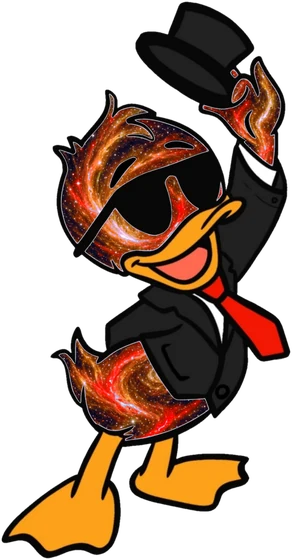
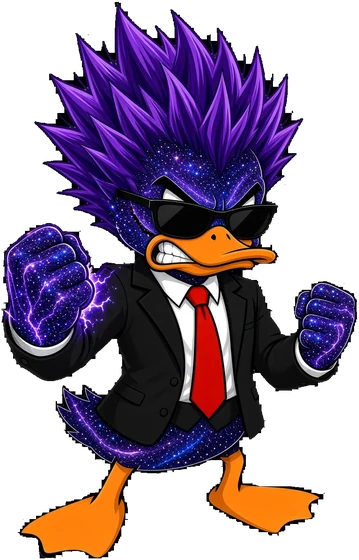
Galáctico con su nueva imagen enojada y el Dorado como único secreto de $100.000.000
- Tío Pato Galáctico: la versión enojada pasa a ser la imagen nueva (melena morada de punta y puños con rayos), con el fondo negro quitado, y se ajustan su proporción y el recorte del avatar. Sus frases de furia dejan de hablar de lava y hablan de tormenta cósmica y puños estelares.
- Tío Pato Dorado (imágenes del rey dorado y del dorado oscuro) pasa a ser el personaje secreto de $100.000.000 y reemplaza al Millonario antiguo (el rig dorado). Su id sigue siendo millonario para que quien ya lo compró no lo pierda; la skin de $50.000.000 desaparece.
- Frases del secreto: las del Dorado más las de «millonario» que no hablan del infierno (26 amables, 25 de reto, 20 de enojo, 14 de furia).
- Reglas de Firebase regeneradas: solo desaparece el bloque ch_dorado. Pruebas de reglas: 199 correctas.
- LEEME actualizado.

Claude-Session: https://claude.ai/code/session_01Hta2nH4bh5bZygqPgYndi2

diff --git a/dialogos.js b/dialogos.js
@@ -247,32 +247,8 @@ window.DIALOGOS = {
       }
     },
 
-    millonario: {
-      amable: [
-        'Con tus rebotes me haces más rico', '¡Cada {nom} suena a música!', 'Soy tan millonario que hasta mis plumas son de oro', '¡Qué buena inversión eres, %j!', 'Mi fortuna crece con cada rebote',
-        'Hasta mi chofer aplaude', 'El oro brilla, pero tu juego brilla más', '¡Cuac de oro, cuac de lujo!', 'Esto sí es vida de millonario', 'Después de esto, caviar para todos'
-      ],
-      reto: [
-        'Un millonario no se deja ganar, ¿sabes?', 'Tengo oro para aburrir… ¿y tú?', 'Mis monedas valen más que tu puntería', '¿Crees que puedes con una fortuna como la mía?', 'Para ganarme hay que ser millonario… ¿lo eres?',
-        'Ya me aburrí de regalarte puntos', 'Mi banco no pierde, amigo', 'Estoy contando mis monedas… y tú vas perdiendo las tuyas', 'Mil pesos más y te rindes, ¿cierto?', 'Mi caja fuerte está más segura que tu barra'
-      ],
-      enojo: [
-        '¡Esto me está costando una fortuna!', '¡Mi oro se está enfriando de la rabia!', '¡Llamen a mi contador, esto es un robo!', '¡Estás gastando mi paciencia, que vale millones!', '¡Ya no soy tan generoso, cuac!',
-        '¡Mi paciencia se agrietó como un lingote!', '¡Pierdo millones por tu culpa!', '¡Eso fue un robo a mano alzada!'
-      ],
-      diablo: [
-        '¡MUAJAJAJA! ¡Tu alma tiene precio!', '¡Arde, mortal… pero yo pago!', '¡El infierno también se compra, cuac!', '¡NO ESCAPARÁS DE MI FORTUNA!', '¡Soy %n del infierno… y rico!',
-        '¡Mis llamas son de oro puro!', '¡Todo el infierno es mío, hasta el último peso!', '¡Quémate… en billetes!', '¡Hasta el diablo me debe plata!', '¡Mi tridente es de oro macizo!'
-      ],
-      hitos: {
-        30: ['Mmm… se me acabó la generosidad', 'Ya no regalo más puntos, amigo', 'Hasta aquí llegó el millonario bueno'],
-        55: ['¡Se me acabó la paciencia! ¡AAARGH! 😡', '¡ESTO ME ESTÁ COSTANDO UNA FORTUNA! 😡', '¡Mi corona se torció de la rabia! 😡'],
-        60: ['¡AHORA SOY %D! 😈', '¡ME CONVIERTO EN %D… Y RICO! 😈', '¡MIREN, SOY %D DE ORO! 😈']
-      }
-    },
-
-    // Los dos siguientes tienen muchas más frases y provocan más: hay para que no se repitan en una partida larga.
-    // Tío Pato Galáctico: cósmico y burlón. Al enojarse su galaxia se vuelve lava (no habla del infierno).
+    // Los dos últimos (Galáctico y el secreto Dorado) tienen muchas más frases y provocan más: hay para que no se repitan en una partida larga.
+    // Tío Pato Galáctico: cósmico y burlón. Al enojarse se le eriza la melena morada y le salen rayos en los puños (no habla del infierno).
     galactico: {
       amable: [
         '¡Qué rebote tan estelar, %j!', 'Mi cabeza guarda una galaxia entera… ¡y ahí cabe tu puntería!', '¡Cuac cósmico! Esto es lo mejor del universo', 'Tus rebotes brillan como estrellas',
@@ -292,9 +268,9 @@ window.DIALOGOS = {
         '¡Me estás sacando de órbita!', '¡Ni la gravedad te para!', '¡Esto va a terminar en un Big Bang!', '¡Mi cabeza es un torbellino!'
       ],
       furia: [
-        '¡MI GALAXIA ESTÁ EN LLAMAS!', '¡AGUJERO NEGRO, TRÁGATE {ESA}!', '¡SUPERNOVAAAA!', '¡EL UNIVERSO ENTERO TIENE QUE PARAR!', '¡TODO EL COSMOS ARDE, %j!', '¡ME CONVIERTO EN LAVA ESTELAR!',
-        '¡CUAC CÓSMICO!', '¡LAS ESTRELLAS ESTÁN EXPLOTANDO!', '¡NO HAY GALAXIA QUE AGUANTE ESTO!', '¡FALLA DE UNA VEZ, TERRÍCOLA!', '¡MI PLANETA SE ESTÁ DERRITIENDO!',
-        '¡ESTO ES EL FIN DEL UNIVERSO!', '¡METEORITOS, A MÍ!', '¡NI UN AGUJERO NEGRO TE TRAGA!'
+        '¡MI GALAXIA SE DESATA!', '¡AGUJERO NEGRO, TRÁGATE {ESA}!', '¡SUPERNOVAAAA!', '¡EL UNIVERSO ENTERO TIENE QUE PARAR!', '¡TODO EL COSMOS TIEMBLA, %j!', '¡ME CONVIERTO EN TORMENTA ESTELAR!',
+        '¡CUAC CÓSMICO!', '¡LAS ESTRELLAS ESTÁN EXPLOTANDO!', '¡NO HAY GALAXIA QUE AGUANTE ESTO!', '¡FALLA DE UNA VEZ, TERRÍCOLA!', '¡MI PLANETA SE SACUDE!',
+        '¡ESTO ES EL FIN DEL UNIVERSO!', '¡METEORITOS, A MÍ!', '¡NI UN AGUJERO NEGRO TE TRAGA!', '¡PUÑOS ESTELARES, A LA CARGA!', '¡MI MELENA CÓSMICA SE ERIZÓ!', '¡RAYOS DE GALAXIA, DESPIERTEN!'
       ],
       hitos: {
         10: ['¡Diez! Todavía estás en órbita baja 🚀', '¡Ya van diez, astronauta! 🚀'],
@@ -302,30 +278,37 @@ window.DIALOGOS = {
         30: ['Mmm… el universo se está poniendo serio', 'Se acabó el paseo espacial, amigo', 'Mi galaxia acaba de acelerar'],
         45: ['¡45! Se me está calentando la galaxia ☄', '¡45 rebotes! Las estrellas empiezan a inquietarse ☄'],
         55: ['¡Mi galaxia se enciende! ¡CUAAAC! 😡', '¡Se me acabó la paciencia cósmica! 😡', '¡Explota la primera estrella! 😡'],
-        60: ['¡Mi universo arde! 🔥', '¡Mi galaxia es lava ahora! 🔥', '¡Soy una supernova con pico! 🔥'],
+        60: ['¡Mi melena se erizó! ¡Soy una tormenta cósmica! ⚡', '¡Puños estelares, a la carga! ⚡', '¡Soy una supernova con pico! ⚡'],
         80: ['¡80! ¡Ni los cometas van tan rápido! ☄', '¡Ochenta! Las estrellas hablan de ti ☄'],
         120: ['¡120! Hasta los agujeros negros te respetan 🌌', '¡Ciento veinte! ¿Seguro que eres terrícola, %j? 🌌'],
         150: ['¡150! Eres una constelación nueva 🌌', '¡Ciento cincuenta! El universo se rinde ante ti 🌌']
       }
     },
 
-    // Tío Pato Dorado (secreto): un rey presumido. Al enojarse su oro se vuelve brasa (no habla del infierno).
-    dorado: {
+    // Tío Pato Dorado (el secreto de $100.000.000; su id sigue siendo millonario): rey presumido y millonario. Al enojarse su oro se vuelve brasa (no habla del infierno).
+    millonario: {
       amable: [
         '¡Un rey de oro aprueba ese rebote!', 'Mi corona brilla un poquito más gracias a ti', 'Cada rebote tuyo vale su peso en oro', '¡Qué modales tan reales, %j!', '¡Cuac, cuac! ¡Salve el campeón!',
         'Todo lo que toco se vuelve oro… hasta tu partida', 'Mi corte aplaude de pie', 'Puedes ser mi caballero real, %j', 'Con este traje negro hasta los reyes me envidian', 'Qué puntería digna de un reino',
-        '¡Brilla, brilla, %j!', '¡Cuac real!', 'Hoy el rey está de buen humor', 'Mi tesoro y tú: lo mejor de mi reino', 'Un aplauso real para %j', '¡Bien jugado, plebeyo… digo, amigo!'
+        '¡Brilla, brilla, %j!', '¡Cuac real!', 'Hoy el rey está de buen humor', 'Mi tesoro y tú: lo mejor de mi reino', 'Un aplauso real para %j', '¡Bien jugado, plebeyo… digo, amigo!',
+        'Con tus rebotes me haces más rico', '¡Cada {nom} suena a música!', 'Soy tan millonario que hasta mis plumas son de oro', '¡Qué buena inversión eres, %j!', 'Mi fortuna crece con cada rebote',
+        'Hasta mi chofer aplaude', 'El oro brilla, pero tu juego brilla más', '¡Cuac de oro, cuac de lujo!', 'Esto sí es vida de millonario', 'Después de esto, caviar para todos'
       ],
       reto: [
         'Un rey no pierde contra un plebeyo, ¿lo sabías?', 'Mi corona pesa… pero tu paciencia pesa menos', '¿Te atreves a desafiar a la realeza?', 'Mi reino nunca ha sido conquistado',
         'Para ganarme hay que tener sangre de oro, %j', 'Se te están acabando los súbditos… digo, los rebotes', 'Un rey siempre gana la última partida', 'Mi tesoro es más grande que tu ego',
         'Cuidado: la corona se pone pesada cuando me enojo', 'Rebotas bien… ¡para ser plebeyo!', 'Tu barra no vale ni una moneda de mi tesoro', 'Mis guardias ya preparan tu destierro',
-        'El trono es mío, amigo', 'Ya van %h rebotes… ¡ni un siervo aguanta tanto!', 'No me hagas quitarme la corona', '¿Todo el oro del mundo y tú sin poder fallar?'
+        'El trono es mío, amigo', 'Ya van %h rebotes… ¡ni un siervo aguanta tanto!', 'No me hagas quitarme la corona', '¿Todo el oro del mundo y tú sin poder fallar?',
+        'Un millonario no se deja ganar, ¿sabes?', 'Tengo oro para aburrir… ¿y tú?', 'Mis monedas valen más que tu puntería', '¿Crees que puedes con una fortuna como la mía?',
+        'Para ganarme hay que ser millonario… ¿lo eres?', 'Ya me aburrí de regalarte puntos', 'Mi banco no pierde, amigo', 'Estoy contando mis monedas… y tú vas perdiendo las tuyas',
+        'Mi caja fuerte está más segura que tu barra'
       ],
       enojo: [
         '¡Tu insolencia es un insulto al reino, %j!', '¡Mi corona se está calentando!', '¡Guardias! ¡Detengan a este plebeyo!', '¡Se me derrite el oro de la rabia!', '¡Ya no soy tan generoso con los rebotes!',
         '¡Esto es una traición a la corona!', '¡Mi tesoro tiembla de rabia!', '¡Un rey no debería sufrir esto!', '¡Se me oscurece el oro, cuac!', '¡Te voy a desterrar de mi reino!',
-        '¡Mis rubíes están al rojo vivo!', '¡Mis plumas doradas se ponen naranjas!', '¡Esto es alta traición!', '¡CUAC REAL! ¡CUAC REAL!'
+        '¡Mis rubíes están al rojo vivo!', '¡Mis plumas doradas se ponen naranjas!', '¡Esto es alta traición!', '¡CUAC REAL! ¡CUAC REAL!',
+        '¡Esto me está costando una fortuna!', '¡Llamen a mi contador, esto es un robo!', '¡Estás gastando mi paciencia, que vale millones!', '¡Mi paciencia se agrietó como un lingote!',
+        '¡Pierdo millones por tu culpa!', '¡Eso fue un robo a mano alzada!'
       ],
       furia: [
         '¡MI CORONA ARDE AL ROJO VIVO!', '¡SOY EL REY DE LAS BRASAS!', '¡TODO EL ORO SE HACE LAVA!', '¡ARRODÍLLATE ANTE EL REY ARDIENTE!', '¡MI REINO SE INCENDIA POR TU CULPA, %j!',
@@ -335,9 +318,9 @@ window.DIALOGOS = {
       hitos: {
         10: ['¡Diez rebotes! Mi corte te observa 👑', '¡Ya van diez! Voy a anotarlo en el libro real 👑'],
         20: ['¡Veinte! Vas camino a duque 👑', '¡Veinte rebotes! Mi tesorero está impresionado 👑'],
-        30: ['Mmm… el rey se está aburriendo de ser amable', 'Se acabó la cortesía real, amigo', 'Mi corona se siente pesada de repente'],
+        30: ['Mmm… el rey se está aburriendo de ser amable', 'Se acabó la cortesía real, amigo', 'Mi corona se siente pesada de repente', 'Mmm… se me acabó la generosidad', 'Ya no regalo más puntos, amigo'],
         45: ['¡45! Se me está calentando el oro 🔥', '¡45 rebotes! Los guardias empiezan a sudar 🔥'],
-        55: ['¡Se me enciende la corona! ¡CUAAAC! 😡', '¡HASTA AQUÍ LLEGÓ EL REY BUENO! 😡', '¡Mi oro se está poniendo negro! 😡'],
+        55: ['¡Se me enciende la corona! ¡CUAAAC! 😡', '¡HASTA AQUÍ LLEGÓ EL REY BUENO! 😡', '¡Mi oro se está poniendo negro! 😡', '¡ESTO ME ESTÁ COSTANDO UNA FORTUNA! 😡', '¡Mi corona se torció de la rabia! 😡'],
         60: ['¡AHORA SOY EL REY ARDIENTE! 🔥', '¡MI ORO ES BRASA! 🔥', '¡ARRODÍLLENSE, QUE ARDE EL TRONO! 🔥'],
         80: ['¡80! Hasta mis rubíes se asustan 🔥', '¡Ochenta! Ningún súbdito había llegado tan lejos 🔥'],
         120: ['¡120! Te mereces un reino propio 👑', '¡Ciento veinte! Me quitaría la corona por ti… ¡pero no! 👑'],

diff --git a/tienda.js b/tienda.js
@@ -5,7 +5,7 @@ window.TIENDA = {
   // Economía: cada punto vale lo que paga tu pelota (ball[].rate) multiplicado por «Monedas dobles»: ×1 del punto 1 al 99, ×2 del 100 al 199, ×3 del 200 al 299…
   eco: { tier: 100, msPorRebote: 450, holguraMs: 3000, hMax: 500, cMax: 1000000000000 },
 
-  // Personajes: el rival que te devuelve la pelota. La Tía Patita (patita/) y el Millonario (oro/) tienen carpeta con las capas del ángel y del demonio; el resto son imágenes sueltas
+  // Personajes: el rival que te devuelve la pelota. Solo la Tía Patita (patita/) tiene carpeta con las capas del ángel y del demonio; el resto son imágenes sueltas
   // que se enojan con temblor, brillo rojo y vapor. stat = dibujo calmado · stat2 = dibujo enojado, al que cambian cuando el personaje se enoja.
   // av = recorte de la cara para el avatar · dw = ancho de la caja del personaje (la pareja es más ancha) · g = género/número del nombre (m, f o p = plural).
   // devil: true = el personaje se transforma en diablo (su dibujo enojado es un demonio): sus frases del rebote 70 en adelante hablan del infierno; los demás solo se enfurecen.
@@ -22,14 +22,12 @@ window.TIENDA = {
       av: { w: 76, fx: .47, fy: .375 }, av2: { w: 80, fx: .62, fy: .41 }, css: { steam: '64% 12%' }, note: 'Bigote, sombrero de copa y bata' },
     { id: 'tios',     n: 'Tíos Patitos',        price: 600, stat: 'trajes/tios.webp',     stat2: 'trajes/tios-enojados.webp',    asp: .83,  asp2: .86,  name: 'los Tíos Patitos',       g: 'p', dw: 1.5,
       av: { w: 70, fx: .49, fy: .31 }, av2: { w: 70, fx: .50, fy: .31 }, css: { steam: '48% 6%' }, note: 'La pareja: te devuelven la pelota de la mano' },
-    { id: 'galactico', n: 'Tío Pato Galáctico',  price: 5000, stat: 'trajes/galactico.webp', stat2: 'trajes/galactico-furia.webp', asp: 1.918, asp2: 1.918, name: 'el Tío Pato Galáctico',  g: 'm',
-      av: { w: 74, fx: .46, fy: .35 }, av2: { w: 74, fx: .46, fy: .35 }, css: { steam: '62% 20%' }, note: 'Un trozo del universo con sombrero de copa' },
-    // Personajes secretos: aparecen como una carta misteriosa hasta que los compras.
-    { id: 'dorado',    n: 'Tío Pato Dorado',     price: 50000000, stat: 'trajes/dorado.webp', stat2: 'trajes/dorado-oscuro.webp', asp: 1.812, asp2: 1.767, name: 'el Tío Pato Dorado', g: 'm', secret: true, glow: true,
-      av: { w: 74, fx: .49, fy: .37 }, av2: { w: 70, fx: .54, fy: .36 }, css: { steam: '62% 22%' }, note: 'Rey de oro que se enciende al rojo vivo' },
-    // El Millonario usa el rig de capas del Tío Pato de antes (alas, aureola, cuernos y tridente), pintado de oro (carpeta oro/).
-    { id: 'millonario', n: 'Tío Pato Millonario', price: 100000000, dir: 'oro/', name: 'el Tío Pato Millonario', g: 'm', secret: true, glow: true,
-      css: { wl: '43.5% 64.5%', wr: '59% 63.7%', tr: '60.3% 35.5%', tail: '40% 76%', steam: '58% 22%', avW: '142px', avL: '-47px', avT: '-56px' }, note: 'De oro macizo: el sueño de todo millonario' }
+    { id: 'galactico', n: 'Tío Pato Galáctico',  price: 5000, stat: 'trajes/galactico.webp', stat2: 'trajes/galactico-furia.webp', asp: 1.918, asp2: 1.56, name: 'el Tío Pato Galáctico',  g: 'm',
+      av: { w: 74, fx: .46, fy: .35 }, av2: { w: 88, fx: .56, fy: .40 }, css: { steam: '60% 14%' }, note: 'Un trozo del universo: se enoja y se le eriza la melena' },
+    // Personaje secreto: aparece como una carta misteriosa hasta que lo compras. Es el Tío Pato Dorado (rey de oro con corona que al enojarse se enciende al rojo vivo).
+    // Su id sigue siendo «millonario» para que quien ya lo compró no lo pierda (las reglas de Firebase guardan lo comprado como ch_millonario).
+    { id: 'millonario', n: 'Tío Pato Dorado', price: 100000000, stat: 'trajes/dorado.webp', stat2: 'trajes/dorado-oscuro.webp', asp: 1.812, asp2: 1.767, name: 'el Tío Pato Dorado', g: 'm', secret: true, glow: true,
+      av: { w: 74, fx: .49, fy: .37 }, av2: { w: 70, fx: .54, fy: .36 }, css: { steam: '62% 22%' }, note: 'El secreto: rey de oro que se enciende al rojo vivo' }
   ],
 
   // vip: true = artículo para millonarios (la tienda los separa y los marca con 💎; el precio ya los deja fuera del alcance de quien recién empieza).

diff --git a/LEEME.md b/LEEME.md
@@ -33,12 +33,12 @@ Firebase Realtime Database (gratis, aguanta miles de jugadores) y toma unos 5 mi
   **lingote de plata ($50.000) → $100 · lingote de oro ($500.000) → $200 · diamante ($1.000.000) → $500**.
   Ese valor se multiplica por **«Monedas dobles»**: ×1 del rebote 1 al 99, ×2 del 100 al 199, ×3 del 200 al 299, y así. Ejemplo: con el diamante, una partida de 120 rebotes da 500 × 141 = $70.500 (y una de 500 rebotes, $752.500).
   Al llegar al rebote 100 aparece el aviso animado **«¡Monedas dobles! ×2»** (×3 en el 200…) y una insignia ×N junto al marcador. La pelota con la que empiezas la partida es la que paga toda la partida.
-- **Personajes secretos:** el **Tío Pato Dorado** ($50.000.000; un pato dorado con corona que al enojarse se pone naranja brasa, imágenes `trajes/dorado*.webp`) y el **Tío Pato Millonario** (el Tío Pato de oro, $100.000.000). En la tienda aparecen como cartas misteriosas («Personaje secreto») hasta que se compran. El arte del Millonario está en `oro/` (las mismas capas del Tío Pato pintadas de oro); se puede reemplazar por uno propio con el mismo nombre de archivos.
+- **Personaje secreto:** el **Tío Pato Dorado** cuesta **$100.000.000** (un pato dorado con corona que al enojarse se enciende al rojo vivo: `trajes/dorado.webp` y `trajes/dorado-oscuro.webp`). En la tienda aparece como una carta misteriosa («Personaje secreto») hasta que se compra. Por dentro su id sigue siendo `millonario` (así quien ya lo tenía no lo pierde y las reglas siguen igual). El rig dorado de antes (`oro/`) ya no se usa.
 - **Dificultad:** hasta el rebote 99 el juego es ágil pero amable (la pelota acelera poco y la barra se achica poco). Desde el 100 sube de verdad:
   la pelota acelera mucho más rápido y la barra se achica hasta el 28%. Los valores están al inicio del código de `index.html` (`SPEED0`, `STEP_LO`, `STEP_HI`, `SPEED_MAX`, `SHRINK_LO`, `SHRINK_HI`).
 - **Los golpes del personaje son aleatorios:** cada vez que te devuelve la pelota la manda en una dirección al azar (de casi vertical a muy abierta).
 - En la **Tienda** (desde el menú o al terminar una partida) hay cuatro pestañas. Lo comprado queda en la cuenta y viaja con ella a cualquier celular:
-  - **Personajes:** Tío Pato (incluido), Tía Patita ($150), Tío Pato Conejo ($300), Tía Patita Conejita ($300), Tío Pato Simi ($600), Tíos Patitos ($600) y **Tío Pato Galáctico ($5.000)** (su cabeza y cola son una galaxia; al enojarse la galaxia se vuelve lava). El **Tío Pato** (el principal, incluido) es un ángel de traje blanco que se vuelve demonio rojo: dos imágenes sueltas, `trajes/angel.webp` y `trajes/angel-demonio.webp`, con `devil: true` en `tienda.js`. La Tía Patita empieza de ángel y se vuelve demonio con el rig de capas de `patita/`.
+  - **Personajes:** Tío Pato (incluido), Tía Patita ($150), Tío Pato Conejo ($300), Tía Patita Conejita ($300), Tío Pato Simi ($600), Tíos Patitos ($600) y **Tío Pato Galáctico ($5.000)** (su cabeza y cola son una galaxia; al enojarse se le eriza la melena morada y le salen rayos en los puños). El **Tío Pato** (el principal, incluido) es un ángel de traje blanco que se vuelve demonio rojo: dos imágenes sueltas, `trajes/angel.webp` y `trajes/angel-demonio.webp`, con `devil: true` en `tienda.js`. La Tía Patita empieza de ángel y se vuelve demonio con el rig de capas de `patita/`.
     Las demás skins son imágenes sueltas (`trajes/`): cada una tiene su dibujo calmado y su dibujo enojado, al que cambia cuando el personaje se enoja (rebote 55), con temblor, brillo rojo, vapor y fuego.
   - **Fondos:** Atardecer ($200), Cristal helado ($220), Aurora boreal ($300), Galaxia ($400), Holográfico ($450) y Synthwave ($550): escenas en capas (cielo, astros, siluetas, partículas) con movimiento lento. Las imágenes van dentro del CSS como SVG.
   - **Barras:** Oro líquido ($220), Llamarada ($280), Cristal ($300), Neón ($350), Galaxia ($400), Arcoíris ($450) y Holográfica ($500); cada una con su color, brillo, partículas y un anillo de luz en cada rebote. La Llamarada dibuja lenguas de fuego de verdad (tres capas, parpadeo y brasas) y la tienda anima la vista previa de cada barra.
@@ -49,7 +49,7 @@ Firebase Realtime Database (gratis, aguanta miles de jugadores) y toma unos 5 mi
   (más de 160 por partida para cada personaje), en cuatro fases: amables (1-29), de reto (30-54, te provocan), de enojo (55-69) y de furia (70 en adelante). Salen al azar y sin repetirse
   hasta que se acaban las de esa fase; la próxima frase llega entre 4 y 10 rebotes después (al azar). Pueden usar tu nombre (`%j`), tus rebotes (`%h`) y el récord (`%b`).
   Los textos también nombran **la pelota con la que juegas** (`{la}` = la moneda / el billete / el lingote de oro / el diamante, `{esa}`, `{esta}`, `{una}`, `{nom}`, `{noms}`, `{pago}` = lo que vale cada rebote) y hay frases propias de cada tipo de pelota (`pelota` en `dialogos.js`; 3 de cada 10 frases son de ellas). Cada pelota se nombra en `tienda.js` con `nom` y `gen`.
-  Solo el Tío Pato (`devil: true` en `tienda.js`), la Tía Patita y el Tío Pato Millonario se vuelven diablo y hablan del infierno; las demás skins de una imagen (conejos, Simi, Tíos Patitos, Galáctico y Dorado) solo se enojan. El Tío Pato (sus frases de siempre más otras bien chilenas: «bacán», «vas de pana», «la raja», «cachái», con 😎), el Galáctico y el Dorado tienen unas 16 a 22 frases por fase y frases especiales en los rebotes 10, 20, 30, 45, 55, 60, 80, 120 y 150.
+  Solo el Tío Pato (`devil: true` en `tienda.js`) y la Tía Patita se vuelven diablo y hablan del infierno; las demás skins de una imagen (conejos, Simi, Tíos Patitos, Galáctico y el Dorado secreto) solo se enojan. El Tío Pato (sus frases de siempre más otras bien chilenas: «bacán», «vas de pana», «la raja», «cachái», con 😎), el Galáctico y el Dorado tienen unas 16 a 22 frases por fase y frases especiales en los rebotes 10, 20, 30, 45, 55, 60, 80, 120 y 150.
 - El catálogo y los precios están en `tienda.js`. Si cambias algo, ejecuta `node herramientas/generar-reglas.js`
   (regenera `firebase-rules.json`, porque las reglas también validan precios y pesos) y vuelve a pegar las reglas en Firebase → Realtime Database → Reglas → Publicar.
 
@@ -91,7 +91,7 @@ modificadas del juego; (2) **Cloud Functions** (plan Blaze) permiten registrar l
 
 ## El arte de los personajes
 
-Los personajes con capas (Tía Patita en `patita/` y Millonario en `oro/`) tienen su carpeta con capas PNG transparentes del mismo tamaño (`pato/` es el rig del Tío Pato de antes: hoy solo sirve de respaldo si falta `tienda.js`, porque el Tío Pato usa `trajes/angel*.webp`): 4 caras, alas de ángel y de diablo, aureola, cuernos, tridente, cola y 3 retratos (`hero_*`).
+La Tía Patita (carpeta `patita/`) tiene capas PNG transparentes del mismo tamaño (`pato/` es el rig del Tío Pato de antes: hoy solo sirve de respaldo si falta `tienda.js`, porque el Tío Pato usa `trajes/angel*.webp`): 4 caras, alas de ángel y de diablo, aureola, cuernos, tridente, cola y 3 retratos (`hero_*`).
 El juego las superpone y las anima según los rebotes:
 
 - **0–29 rebotes:** ángel amistoso, con aureola y alas, frases cariñosas.
